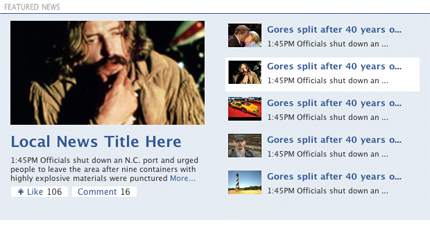
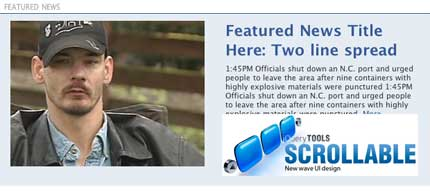
added scrollable template9

diff --git a/app/stylesheets/scrollable_fb.sass b/app/stylesheets/scrollable_fb.sass
@@ -1,9 +1,9 @@
-/* for web grid */
+/* for facebook grid */
 .feature_scrollable 
   /* required settings */
   position: relative
   overflow: hidden
-  +grid(8)
+  width:  500px
   height: 250px
 
 .feature_scrollable .feature_scrollable_items 
@@ -14,5 +14,5 @@
 .feature_scrollable_items 
   .panel_items
     float: left
-    +grid(8)
+    width: 500px
   

diff --git a/app/stylesheets/flowplayer_tabs.sass b/app/stylesheets/flowplayer_tabs.sass
@@ -12,12 +12,12 @@
     padding: 0 
     margin: 0  
     list-style-type: none 
-    width: 150px
+    width: 130px
 
   /* link inside the tab. uses a background image */
   ul.tabs a  
     float: left
-    font-size: 13px
+    font-size: 11px
     display: block
     padding: 5px 30px 
     text-decoration: none

diff --git a/app/stylesheets/fb_grid.sass b/app/stylesheets/fb_grid.sass
@@ -19,7 +19,7 @@
 @import jquery.jcarousel.sass
 @import jcarousel.skin.sass
 @import flowplayer_tabs.sass
-@import scrollable.sass
+@import scrollable_fb.sass
 
 // Image sizing for Facebook
 

diff --git a/app/stylesheets/grid.sass b/app/stylesheets/grid.sass
@@ -161,4 +161,3 @@ body
     margin: 5px 5px 10px
     line-height: 140%
     font-size: $fontsize
-    
